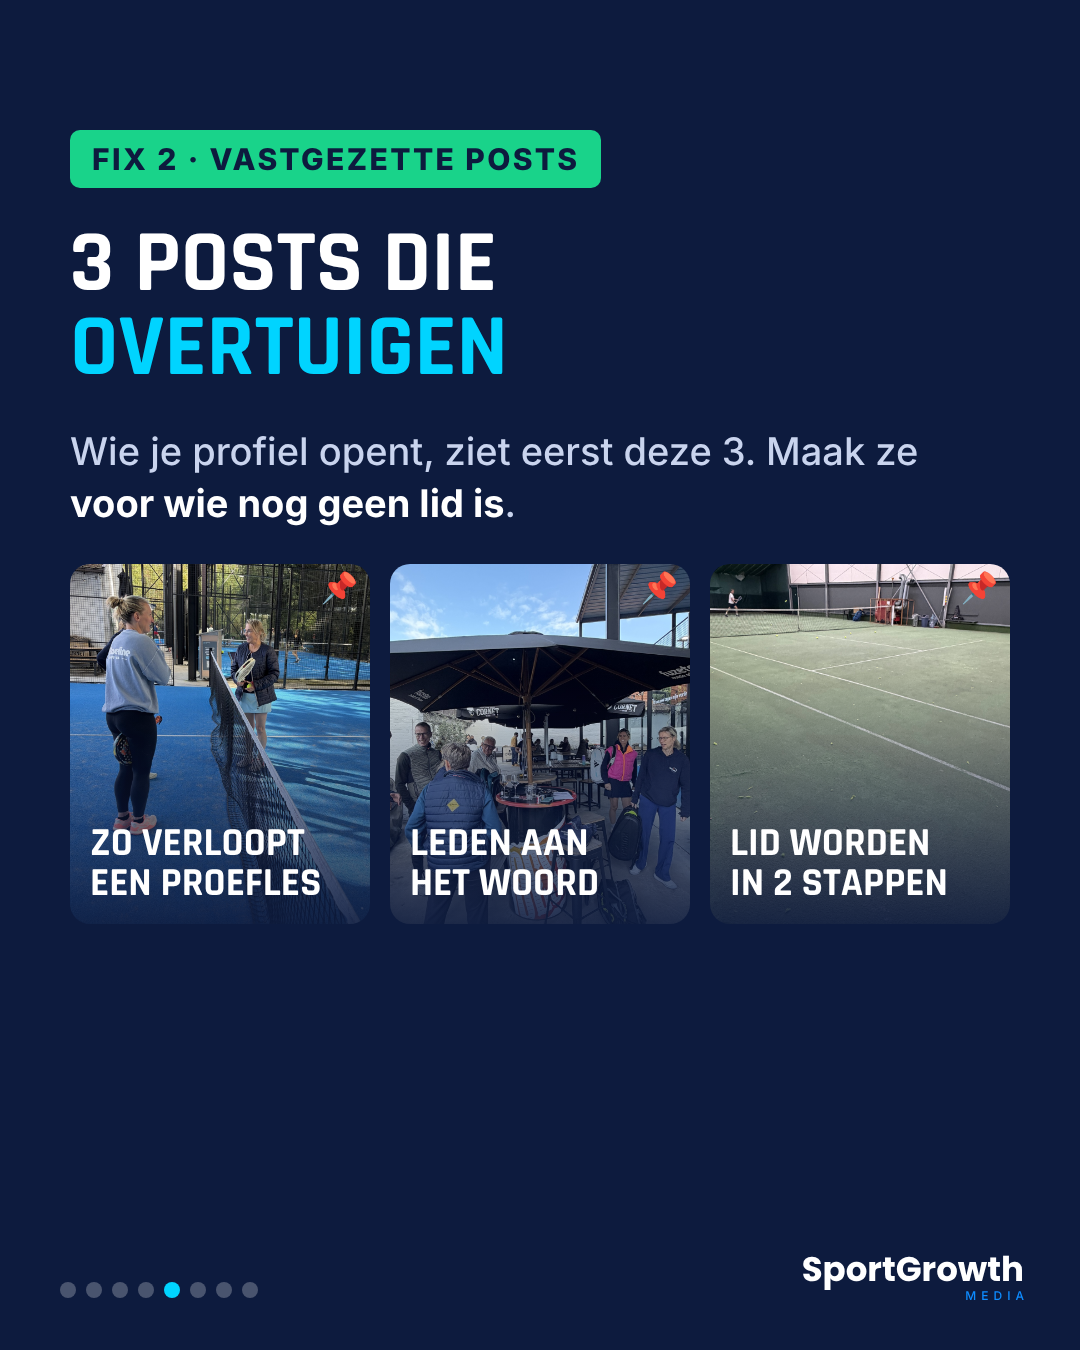
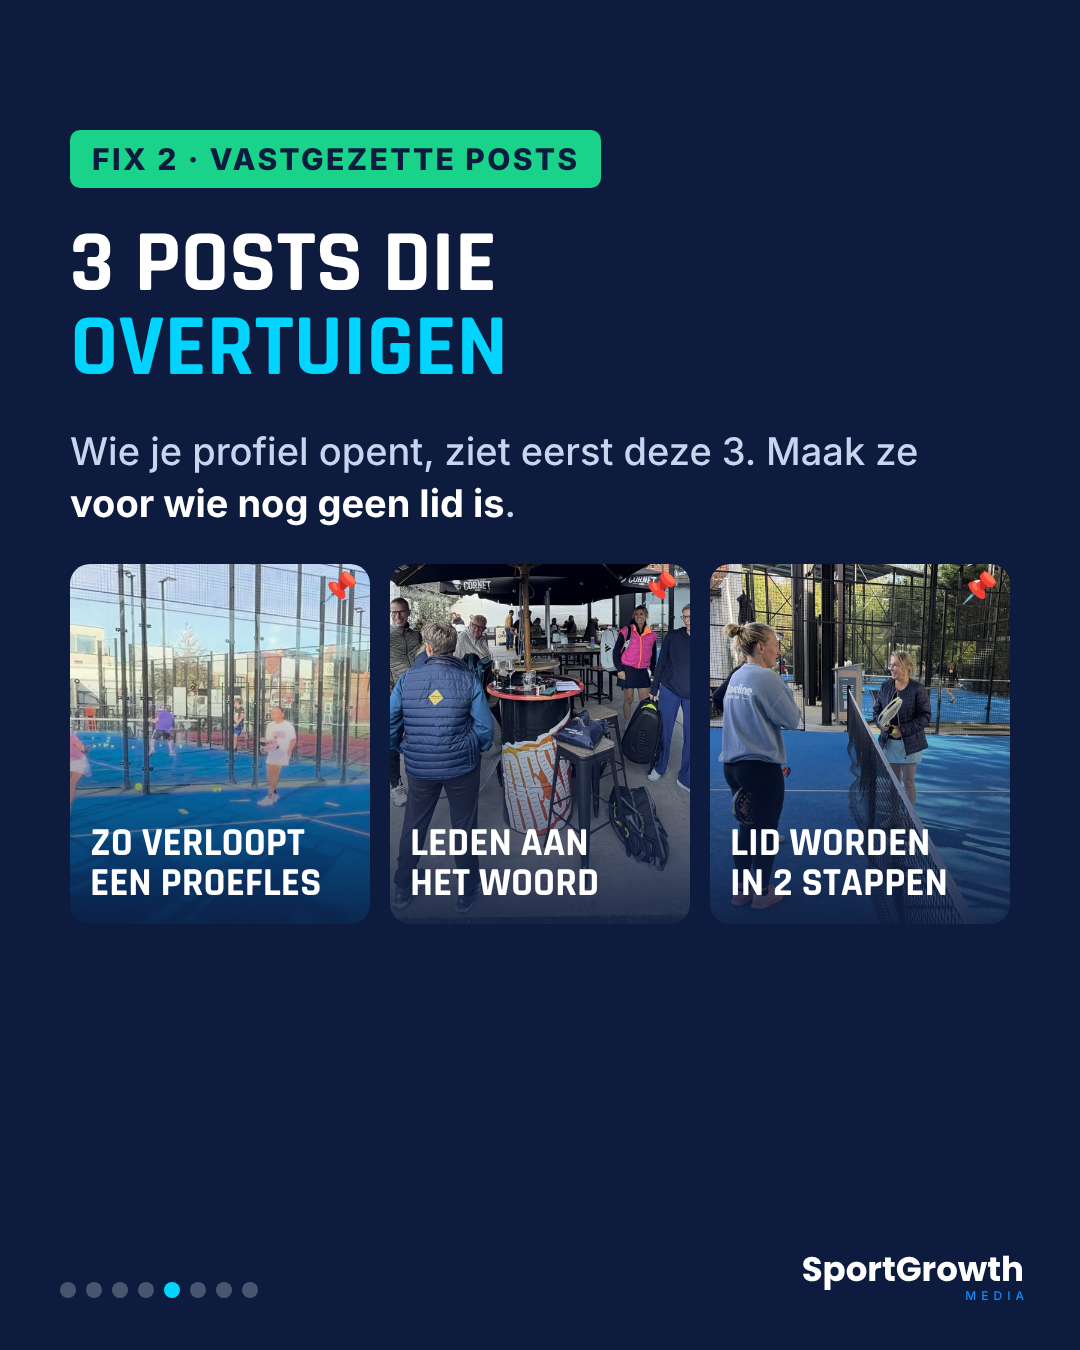
Carrousel CLUBCHECK: feed met mensen i.p.v. lege terreinen
Claude-Session: https://claude.ai/code/session_01QkSWZzWLTduRQtPp2zathG

Changed region(s): [[0.0611, 0.4044, 0.9472, 0.6844]]

diff --git a/instagram/carrousel-clubcheck/build.js b/instagram/carrousel-clubcheck/build.js
@@ -36,7 +36,7 @@ p.t{font:500 38px/1.38 In;color:#c9d4ee;margin:0}p.t b{color:#fff}
 const page = (n, inner) => `<section class="s" id="s${n}">${inner}<div class="pg">${[1,2,3,4,5,6,7,8].map(i=>`<b class="${i===n?'on':''}"></b>`).join('')}</div><div class="logo">SportGrowth<i>MEDIA</i></div></section>`;
 const AF = [['#e94b3c','Kerstdrink<br>20/12'],['#2b5cab','Uitslagen<br>interclub'],['#f2b134','Algemene<br>vergadering'],['#3a8d5a','Lidgeld<br>2027'],['#e94b3c','Uitslagen<br>week 46'],['#7a4bd1','Tornooi<br>inschrijven'],['#2b5cab','Gesloten<br>1/11'],['#f2b134','Mosselfeest'],['#3a8d5a','Uitslagen<br>week 45']];
 const badGrid = AF.map(([c,t])=>`<div style="background:${c};color:#fff">${t}</div>`).join('');
-const P = [B+'/padel-lachen-aan-net.jpg',B+'/tennis-hal-speler.jpg',B+'/padel-vol-terras.jpg',B+'/jari-tennis-lacht.jpg',B+'/padel-net-overdekte-hal.jpg',B+'/tennis-racket-net.jpg',B+'/jari-tennis-slag.jpg',B+'/tennis-hal-breed.jpg',B+'/tennis-ballen-net.jpg'];
+const P = [2,1,3,5,7,4,9,6,8].map(i=>__dirname+'/mensen/m'+i+'.jpg');
 const goodGrid = (pins) => P.map((p,i)=>`<div class="${pins&&i<3?'pin':''}" style="background-image:${i64(p)}">${pins&&i<3?['','',''][i]:''}</div>`).join('');
 const phone = (x, y, bio, hl, grid, sc=1) => `<div class="ph" style="left:${x}px;top:${y}px;transform:scale(${sc});transform-origin:top left"><div class="scr">
 <div class="top"><div class="av">TC</div><div><div class="nm">tcdeklaver</div><div class="st"><span><b>${sc?'412':''}</b>volgers</span><span><b>88</b>posts</span></div></div></div>
